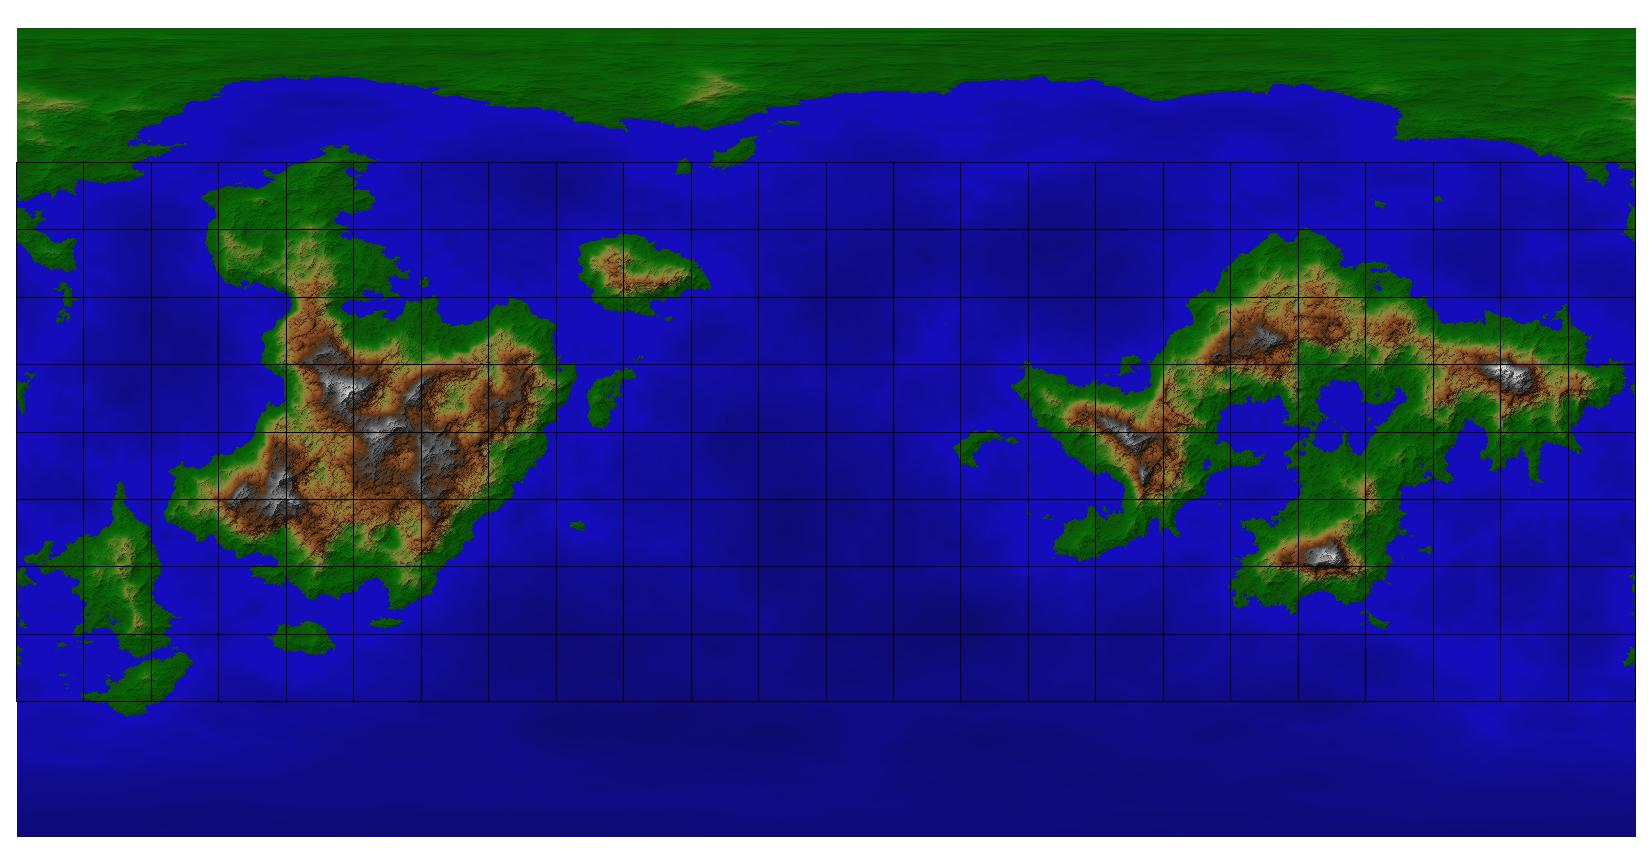
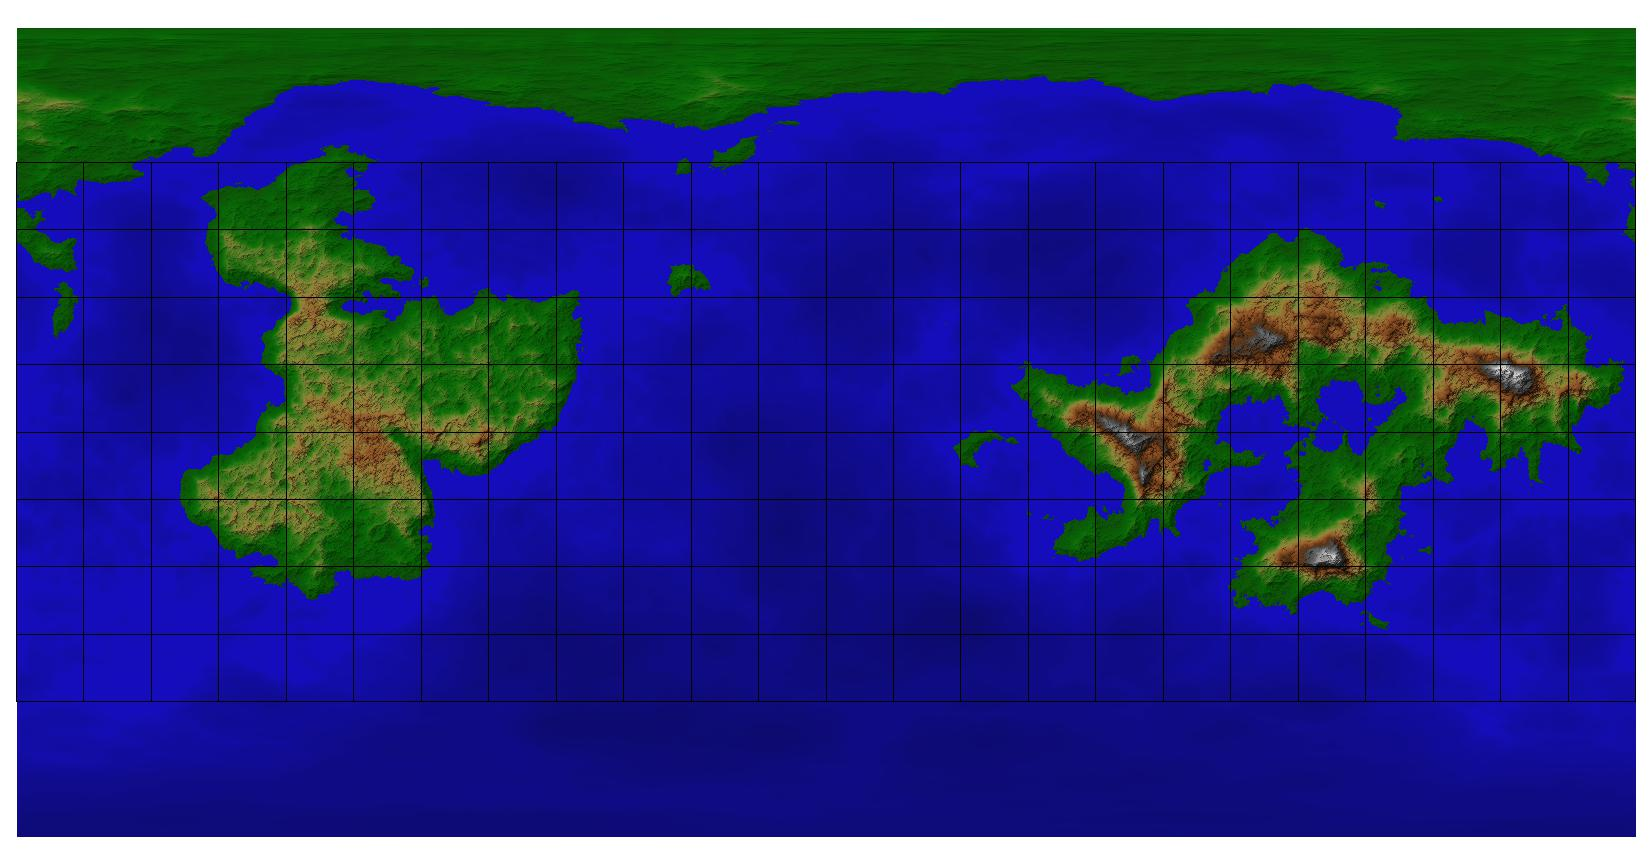
west side continent mountain removal, shore edits

diff --git a/Readme.md b/Readme.md
@@ -32,3 +32,5 @@ Before I start editing the continents, I need a guide to help me get a sense of 
 Right now, the continents are huge and clearly just a fractal generated mess. Based on what I know from looking at our own planet, the big blobs of mountains in the center of the land masses is just all wrong. (I make no claims of geological or planetary epertise, I only know what looks _natural_ to me.) So, I take some time to think about what I want to trim out first and just mark things up in Paint. 
 
 ![Continental Edit Plan](Oct_Map_SketchPlan.jpg)
+
+From there, the idea is to lower, but not really flatten out the bulbous mountains and remove or add terrain as needed. Go slowly and save often. I often find I haven't saved as frequently as I wish I had. The undo buffer only goes so far, and I think that is less far the more detailed the edit size.
